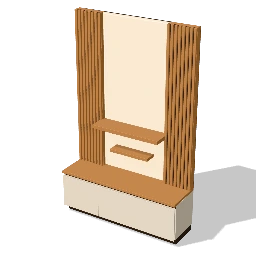
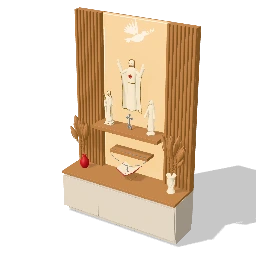
Christian prayer unit: eight meshes, rounded flutes, warmer backlit niche, tan pampas, red Bible

diff --git a/packages/catalog/src/premium/essentials.altar.ts b/packages/catalog/src/premium/essentials.altar.ts
@@ -12,19 +12,23 @@
 import type { CatalogEntry } from '@interio/core';
 import * as THREE from 'three';
 import { Fit, panel, place, rng, surface, twoSided, type G } from './decor.parts';
-import { Model, box, cyl, rbox, tube, type BuildContext } from './kit';
+import { Model, box, cyl, rbox, type BuildContext } from './kit';
 import { taperRod } from './seating.parts';
 
 /* ---------------------------------------------------------------- materials */
 
-/** The fixed materials. Ten meshes at most: three slots and these seven. */
-const STATUE = '#efe3c7'; // painted resin, cream; also the Bible's pages and the cream vase
+/** The fixed materials. The family allows eight meshes: three slots and these five. */
+const STATUE = '#efe1c4'; // painted resin, cream; also the Bible's pages and the cream vase
 const GOLD = 'metal.brass';
-const SKIN = '#e0bc98'; // faces, hands and feet; the pampas plumes share it
-const RED = '#a3171d'; // the Sacred Heart, the red vase, the Bible's ribbon
+const RED = '#a3171d'; // the Sacred Heart, the red vase, the Bible's cover and ribbon
 const SILVER = 'metal.steel'; // the cross and the rosary
 const GLOW = '#fff6e6'; // the dove and the LED strips (emissive)
-const DARK = '#2a1e16'; // hair, the shadow gaps, the plinth, the Bible's cover
+/** Faces, hands and feet: the statues are cream all over, with gold trim. */
+const SKIN = STATUE;
+/** Hair, beards and painted eyes take the panels' wood (a warm brown): the family's 8-mesh budget has no room for another colour. */
+const HAIR = 'wood';
+/** Dried pampas: the same warm wood tone reads as the reference's tan plumes. */
+const PLUME = 'wood';
 
 /**
  * How the lit parts glow. The niche panel is backlit: most of its look is the
@@ -38,8 +42,8 @@ interface Glow {
   /** Scales the surface colour. */
   surface: number;
 }
-const PANEL: Glow = { tint: new THREE.Color('#ffd27f'), intensity: 1.0, surface: 0.45 };
-const LED: Glow = { tint: new THREE.Color('#fff4e4'), intensity: 2, surface: 1 };
+const PANEL: Glow = { tint: new THREE.Color('#ffd27f'), intensity: 1.1, surface: 0.3 };
+const LED: Glow = { tint: new THREE.Color('#fff4e4'), intensity: 1.6, surface: 1 };
 
 const glowCopies = new WeakMap<THREE.Material, THREE.Material>();
 
@@ -189,7 +193,7 @@ function robedBody(f: Fit, h: number, opts: { feet?: boolean; slim?: number } = 
   f.fixed(SKIN, cyl(0.026 * h, 0.03 * h, 0.06 * h, 0, 0.83 * h, 0, 'y', 10));
   f.fixed(SKIN, ell(rh * 0.86, rh * 1.04, rh * 0.92, ...head, 0, 0, 0, 14, 10));
   // Painted eyes, small.
-  for (const s of [-1, 1]) f.fixed(DARK, ell(rh * 0.11, rh * 0.07, rh * 0.05, head[0] + s * rh * 0.33, head[1] + rh * 0.08, head[2] + rh * 0.85, 0, 0, 0, 6, 4));
+  for (const s of [-1, 1]) f.part(HAIR, ell(rh * 0.11, rh * 0.07, rh * 0.05, head[0] + s * rh * 0.33, head[1] + rh * 0.08, head[2] + rh * 0.85, 0, 0, 0, 6, 4));
   // Bare feet showing below the hem.
   if (opts.feet) for (const s of [-1, 1]) f.fixed(SKIN, ell(0.026 * h, 0.018 * h, 0.05 * h, s * 0.035 * h, 0.018 * h, 0.04 * h, s * 0.12, 0, 0, 8, 6));
   return { head, rh, front: (y: number) => at(y) * SZ };
@@ -206,11 +210,11 @@ function hair(f: Fit, c: V3, rh: number, beard: number, long = 1): void {
     [0.42 * rh, 1.06 * rh],
     [0, 1.12 * rh],
   ];
-  f.fixed(DARK, rev(shell, 16, 0.95, 2.3).translate(c[0], c[1], c[2] - 0.08 * rh));
+  f.part(HAIR, rev(shell, 16, 0.95, 2.3).translate(c[0], c[1], c[2] - 0.08 * rh));
   if (beard > 0) {
     // A short beard along the jaw and chin, and a moustache.
-    f.fixed(DARK, ell(0.56 * rh, 0.4 * rh * beard, 0.36 * rh, c[0], c[1] - 0.74 * rh, c[2] + 0.5 * rh, 0, 0.4, 0, 10, 6));
-    f.fixed(DARK, ell(0.3 * rh, 0.06 * rh, 0.1 * rh, c[0], c[1] - 0.36 * rh, c[2] + 0.86 * rh, 0, 0, 0, 8, 4));
+    f.part(HAIR, ell(0.56 * rh, 0.4 * rh * beard, 0.36 * rh, c[0], c[1] - 0.74 * rh, c[2] + 0.5 * rh, 0, 0.4, 0, 10, 6));
+    f.part(HAIR, ell(0.3 * rh, 0.06 * rh, 0.1 * rh, c[0], c[1] - 0.36 * rh, c[2] + 0.86 * rh, 0, 0, 0, 8, 4));
   }
 }
 
@@ -314,7 +318,7 @@ function joseph(H: number): Fit {
   b.fixed(STATUE, rev([[0, 0], [0.05 * h, 0], [0.056 * h, 0.05 * h], [0.046 * h, 0.12 * h], [0.036 * h, 0.17 * h], [0.016 * h, 0.195 * h], [0, 0.2 * h]], 14, 0.85).translate(cx, cy, cz));
   const ch: V3 = [cx + 0.005 * h, cy + 0.235 * h, cz + 0.005 * h];
   b.fixed(SKIN, ell(0.04 * h, 0.044 * h, 0.04 * h, ...ch, 0, 0, 0, 12, 8));
-  b.fixed(DARK, rev([[0.03 * h, -0.005 * h], [0.042 * h, 0.012 * h], [0.036 * h, 0.03 * h], [0.018 * h, 0.044 * h], [0, 0.047 * h]], 12, 1, 2.6).translate(ch[0], ch[1], ch[2] - 0.004 * h));
+  b.part(HAIR, rev([[0.03 * h, -0.005 * h], [0.042 * h, 0.012 * h], [0.036 * h, 0.03 * h], [0.018 * h, 0.044 * h], [0, 0.047 * h]], 12, 1, 2.6).translate(ch[0], ch[1], ch[2] - 0.004 * h));
   // The Child's right hand raised in blessing.
   b.fixed(STATUE, taperRod([cx - 0.03 * h, cy + 0.16 * h, cz + 0.02 * h], [cx - 0.05 * h, cy + 0.2 * h, cz + 0.05 * h], 0.014 * h, 0.016 * h, 8));
   b.fixed(SKIN, ell(0.011 * h, 0.018 * h, 0.007 * h, cx - 0.056 * h, cy + 0.225 * h, cz + 0.055 * h, 0, 0, 0.3, 6, 5));
@@ -449,7 +453,7 @@ function dove(w: number): G[] {
 function stThomasCross(f: Fit, h: number): void {
   const u = h / 0.2;
   // A dark wooden plinth, a silver stepped base with two curling leaves.
-  f.fixed(DARK, rbox(0.075 * u, 0.012 * u, 0.045 * u, 0.002 * u, 0, 0, 0, 1));
+  f.part('wood', rbox(0.075 * u, 0.012 * u, 0.045 * u, 0.002 * u, 0, 0, 0, 1));
   f.fixed(SILVER, rbox(0.06 * u, 0.008 * u, 0.036 * u, 0.002 * u, 0, 0.012 * u, 0, 1));
   f.fixed(SILVER, rbox(0.044 * u, 0.008 * u, 0.028 * u, 0.002 * u, 0, 0.02 * u, 0, 1));
   f.fixed(SILVER, rbox(0.028 * u, 0.01 * u, 0.02 * u, 0.002 * u, 0, 0.028 * u, 0, 1));
@@ -538,7 +542,7 @@ function bibleOnStand(m: Model, w: number, x: number, y: number, z: number): voi
     const pages = rbox(pageT, half, depth, 0.005, 0, -half / 2, 0, 2)
       .rotateZ(ang)
       .translate(...base.clone().addScaledVector(n, t / 2 + 0.004 + pageT / 2).addScaledVector(up, half / 2).toArray());
-    m.fixed(DARK, cover);
+    m.fixed(RED, cover);
     m.fixed(STATUE, pages);
   }
   // A red ribbon from the spine, over the front edge.
@@ -578,7 +582,7 @@ function pampas(m: Model, vase: G, vaseMat: string, vaseH: number, x: number, y:
     const scale = Math.min(1, room / (stem + plume));
     const base = new THREE.Vector3(x, y + vaseH - 0.01, z);
     const tip = base.clone().addScaledVector(dir, stem * scale);
-    m.fixed(SKIN, taperRod(base.toArray() as V3, tip.toArray() as V3, 0.002, 0.0015, 4));
+    m.part(PLUME, taperRod(base.toArray() as V3, tip.toArray() as V3, 0.002, 0.0015, 4));
     const prof: [number, number][] = [
       [0, 0],
       [0.012, 0.025],
@@ -598,8 +602,40 @@ function pampas(m: Model, vase: G, vaseMat: string, vaseH: number, x: number, y:
     }
     g.computeVertexNormals();
     g.applyQuaternion(new THREE.Quaternion().setFromUnitVectors(new THREE.Vector3(0, 1, 0), dir));
-    m.fixed(SKIN, g.translate(tip.x, tip.y, tip.z));
+    m.part(PLUME, g.translate(tip.x, tip.y, tip.z));
   }
+}
+
+/* -------------------------------------------------------------- the flutes */
+
+/**
+ * A fluted face `w` wide and `h` tall: slats `slat` wide with rounded fronts,
+ * `gap` apart, standing `depth` proud of a thin backing. One extrusion, so a
+ * whole panel costs a few hundred triangles. Centred on x = 0, from y = 0, its
+ * back at z = 0 and its front at z = depth.
+ */
+function flutes(w: number, h: number, depth: number, slat: number, gap: number): G {
+  const n = Math.max(3, Math.round((w + gap) / (slat + gap)));
+  const pitch = (w - slat) / (n - 1);
+  const r = Math.min(slat / 2 - 1e-4, depth * 0.45, slat * 0.32);
+  const back = 0.004;
+  // Drawn in (x, -z): the extrusion along +Z becomes the height after the turn.
+  const s = new THREE.Shape();
+  s.moveTo(-w / 2, back);
+  for (let i = 0; i < n; i++) {
+    const xl = -w / 2 + i * pitch;
+    const xr = xl + slat;
+    s.lineTo(xl, 0);
+    s.lineTo(xl, -(depth - r));
+    s.absarc(xl + r, -(depth - r), r, Math.PI, Math.PI * 1.5, false);
+    s.lineTo(xr - r, -depth);
+    s.absarc(xr - r, -(depth - r), r, Math.PI * 1.5, Math.PI * 2, false);
+    s.lineTo(xr, 0);
+  }
+  s.lineTo(w / 2, back);
+  s.closePath();
+  const g = new THREE.ExtrudeGeometry(s, { depth: h, bevelEnabled: false, curveSegments: 3 });
+  return g.rotateX(-Math.PI / 2);
 }
 
 /* -------------------------------------------------------------- the altar */
@@ -613,16 +649,15 @@ export function buildAltar(entry: CatalogEntry, ctx?: BuildContext): THREE.Objec
   const { W, D, H } = m;
   const back = -D / 2;
 
-  /* Base cabinet: a recessed plinth, handle-less doors under a gola groove, a wood top. */
+  /* Base cabinet: a recessed plinth, handle-less doors with a finger-pull recess under the wood top. */
   const topT = 0.032;
   const cabH = Math.min(0.55, H * 0.23);
   const plinth = 0.08;
   const groove = 0.032;
   const carcassD = D - 0.025;
   const cz = back + carcassD / 2;
-  m.fixed(DARK, panel(W - 0.02, plinth, carcassD - 0.06, 0, 0, cz - 0.03, 0.001));
+  m.part('fronts', panel(W - 0.02, plinth, carcassD - 0.06, 0, 0, cz - 0.03, 0.001));
   m.part('fronts', panel(W, cabH - topT - plinth, carcassD - 0.02, 0, plinth, cz - 0.01, 0.002));
-  m.fixed(DARK, box(W - 0.006, groove, 0.004, 0, cabH - topT - groove, back + carcassD - 0.018));
   const doors = Math.max(2, Math.round(W / 0.5));
   const gap = 0.003;
   const dw = (W - (doors + 1) * gap) / doors;
@@ -639,25 +674,16 @@ export function buildAltar(entry: CatalogEntry, ctx?: BuildContext): THREE.Objec
   const NW = W * 0.55;
   const SW = (W - NW) / 2;
   const boxD = 0.075; // the panels' body: its inner side is the niche's jamb
-  const slatD = 0.025;
+  const slatD = 0.03;
   const nicheZ = back + 0.02; // back of the niche panel
   const nicheT = 0.015;
   const nicheFace = nicheZ + nicheT;
-  m.fixed(DARK, box(W, wallH, 0.01, 0, y0, back + 0.005));
+  m.part('wood', box(W, wallH, 0.01, 0, y0, back + 0.005));
   m.part('niche', box(NW + 0.02, wallH, nicheT, 0, y0, nicheZ + nicheT / 2));
   for (const s of [-1, 1]) {
     const cx = s * (W / 2 - SW / 2);
     m.part('wood', box(SW, wallH, boxD, cx, y0, back + boxD / 2));
-    // A dark shadow line behind the slats, so the flutes read from across the room.
-    m.fixed(DARK, box(SW - 0.004, wallH, 0.002, cx, y0, back + boxD + 0.001));
-    const slat = 0.03;
-    const sGap = 0.012;
-    const n = Math.max(3, Math.round((SW + sGap) / (slat + sGap)));
-    const pitch = (SW - slat) / (n - 1);
-    for (let i = 0; i < n; i++) {
-      const x = cx - SW / 2 + slat / 2 + i * pitch;
-      m.part('wood', panel(slat, wallH, slatD, x, y0, back + boxD + slatD / 2, 0.004));
-    }
+    m.part('wood', flutes(SW, wallH, slatD, 0.03, 0.014).translate(cx, y0, back + boxD));
     // LED strip down the niche's edge, on the back panel.
     m.fixed(GLOW, box(0.008, wallH - 0.02, 0.004, s * (NW / 2 - 0.012), y0 + 0.01, nicheFace + 0.002));
   }
